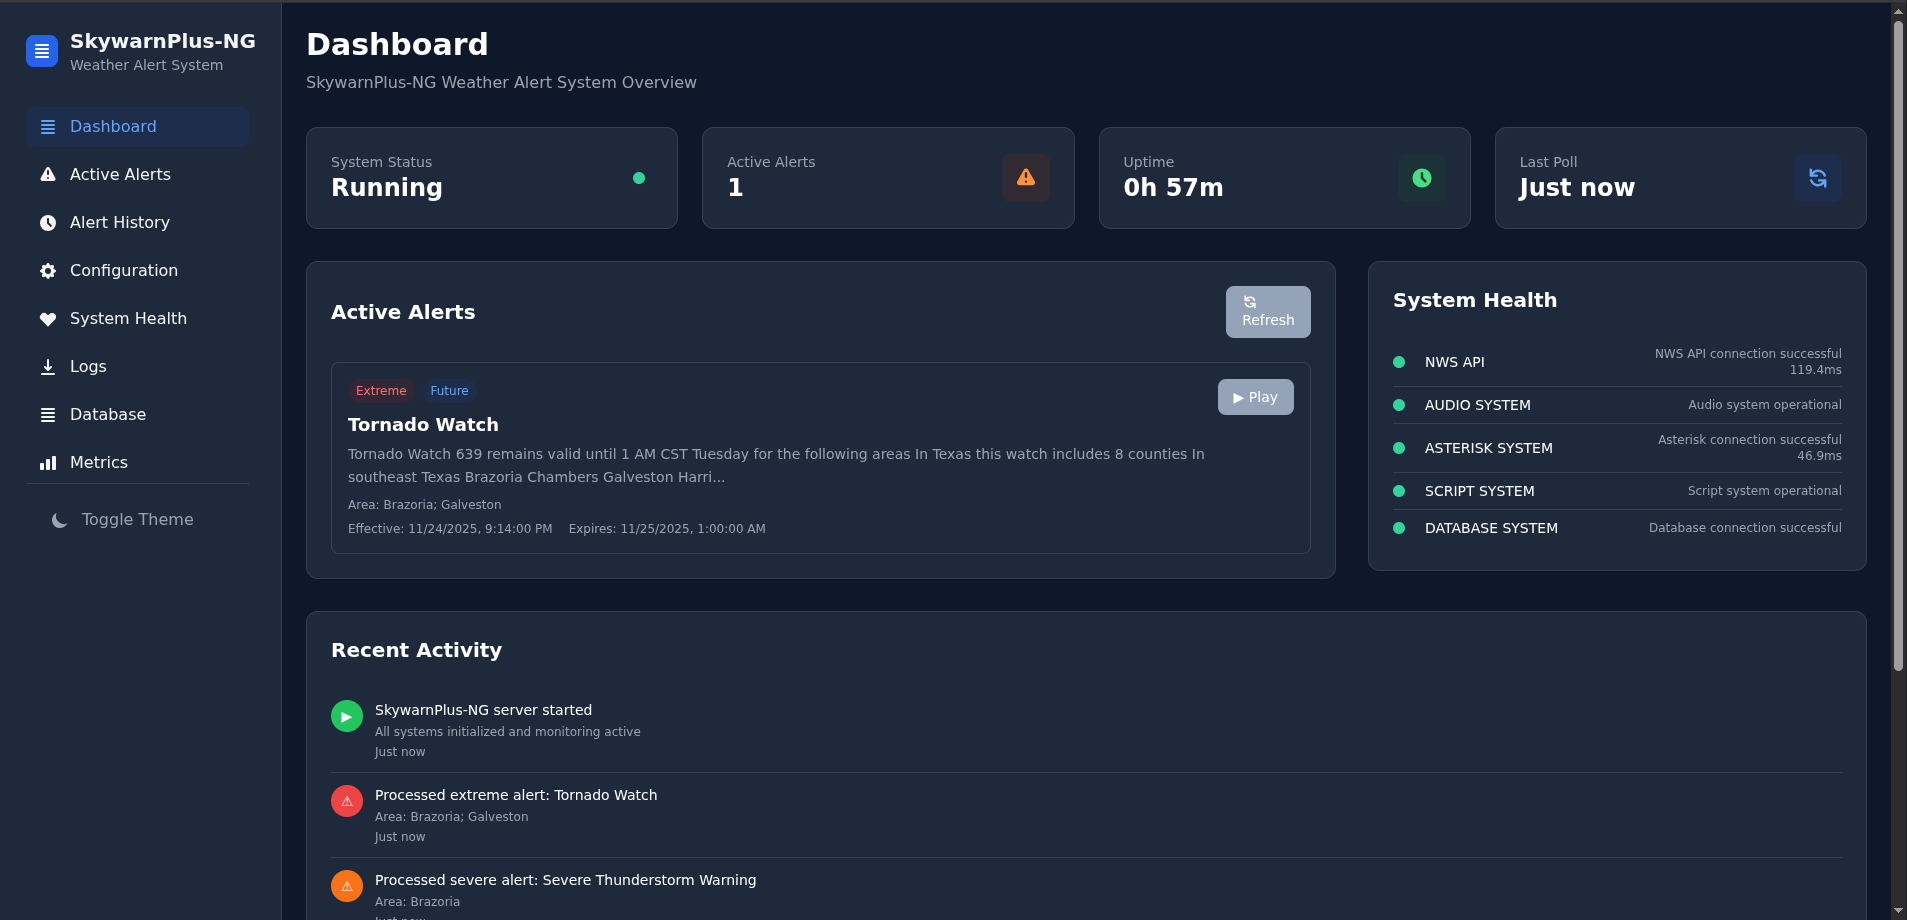
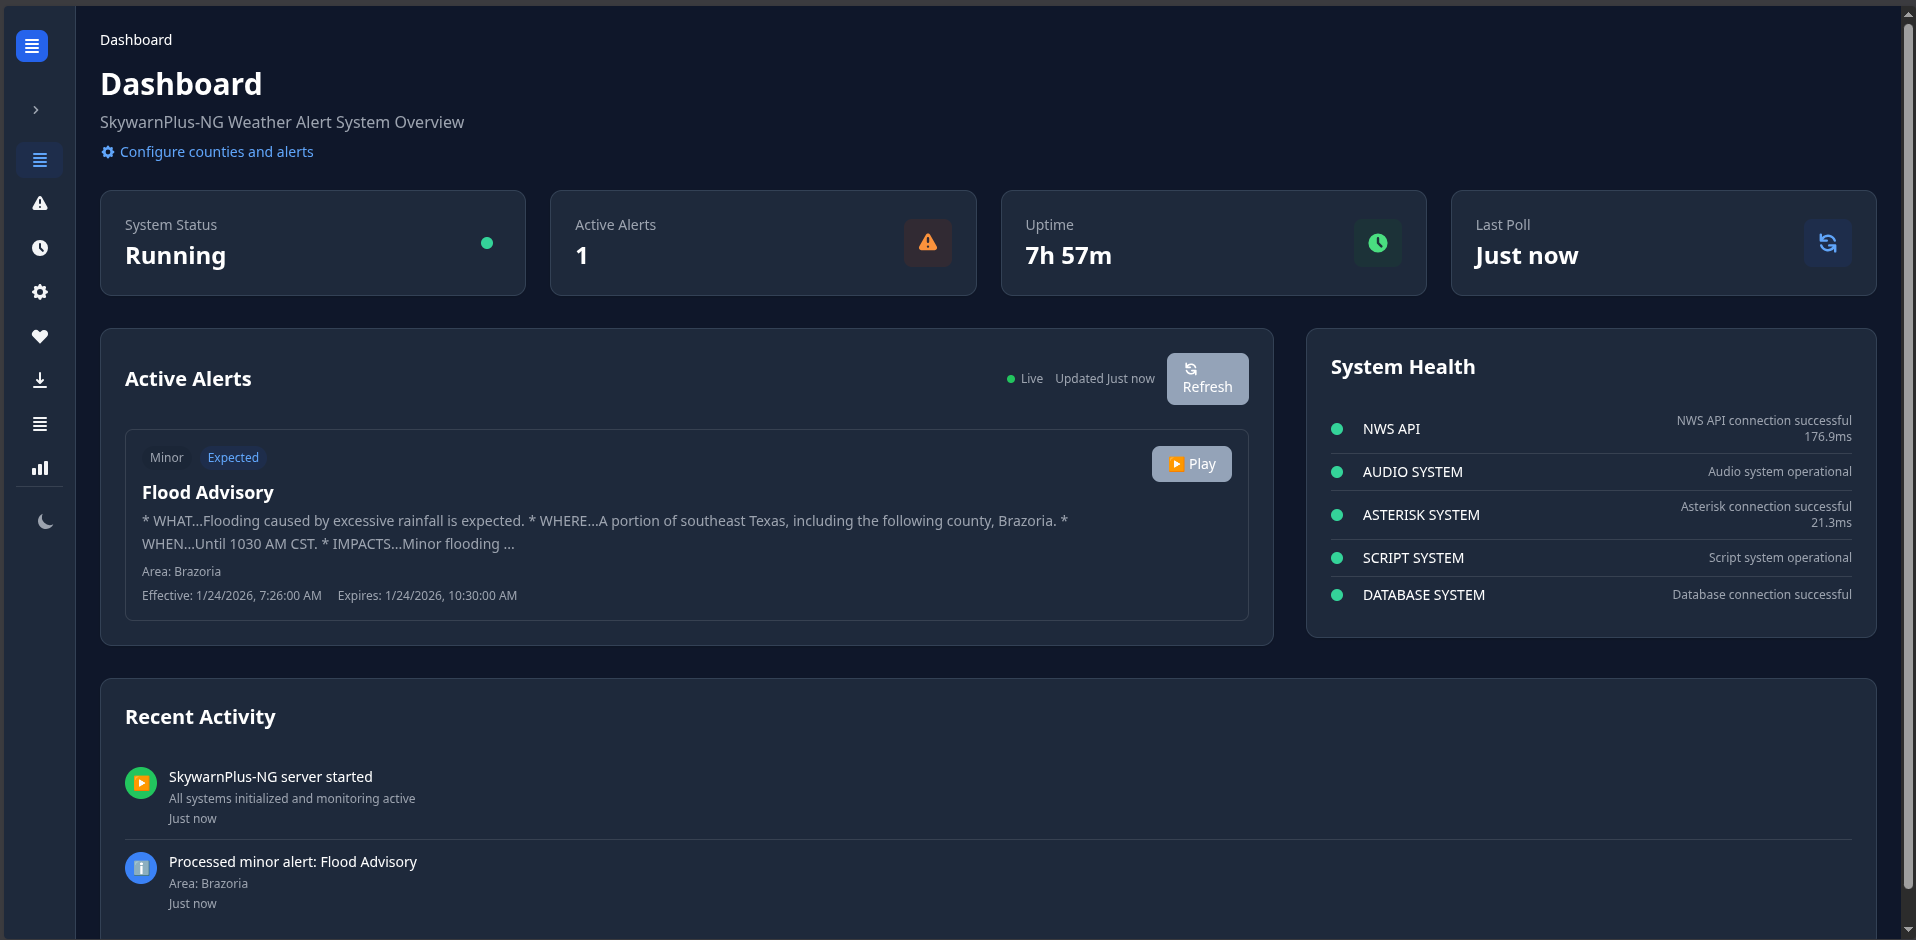
Add additional dashboard screenshot to README
Adds second dashboard screenshot (SkywarnPlus-ng-1.png) alongside the original, and updates the existing screenshot. Both images are now displayed side by side to showcase the web interface.

diff --git a/README.md b/README.md
@@ -2,9 +2,9 @@
 
 Modern weather alert system for Asterisk/app_rpt nodes with DTMF integration.
 
-[![SkywarnPlus-NG Dashboard](SkywarnPlus-ng.png)](SkywarnPlus-ng.png)
+[![SkywarnPlus-NG Dashboard](SkywarnPlus-ng.png)](SkywarnPlus-ng.png) [![SkywarnPlus-NG Dashboard](SkywarnPlus-ng-1.png)](SkywarnPlus-ng-1.png)
 
-*Click the image above to view the full dashboard screenshot*
+*Click the images above to view the full dashboard screenshots*
 
 ## About
 
